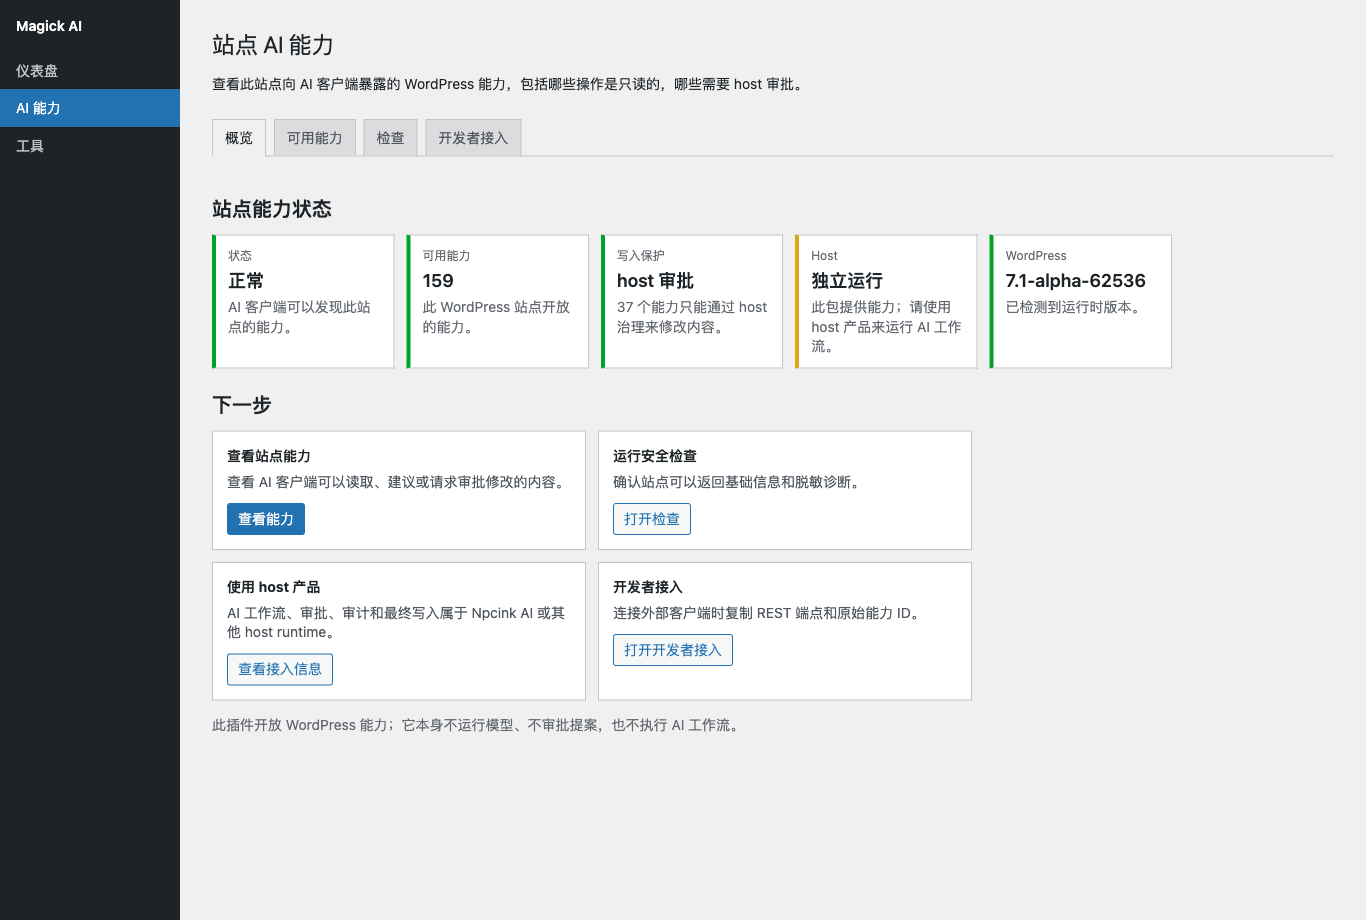
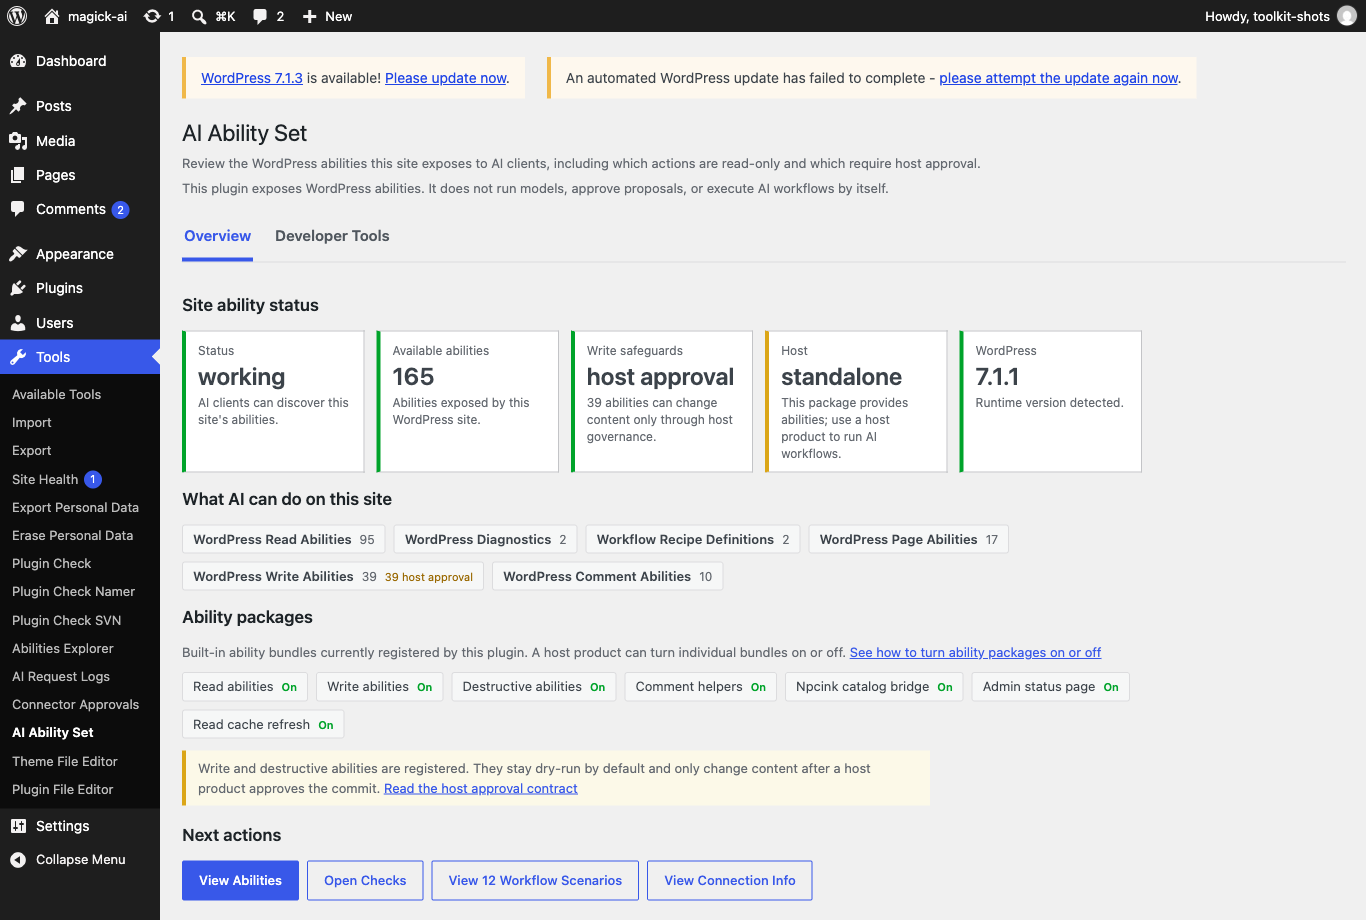
release: prepare 0.5.12 (#238)
User-experience and operator-guidance release from the 2026-10 end-user
audit: no ability contract, schema, or response-shape changes. Version
header, constant, readme stable tag and changelog, the CHANGELOG 0.5.12
section dated today, and all four WordPress.org screenshots refreshed
for the current Overview + Developer Tools structure in English on the
standalone Tools placement (the old set still showed the pre-0.5.9
four-tab Chinese layout).

Changed region(s): [[0.0, 0.0, 1.0, 1.0], [0.4919, 0.9435, 0.5842, 0.9739]]

diff --git a/npcink-abilities-toolkit.php b/npcink-abilities-toolkit.php
@@ -2,7 +2,7 @@
 /**
  * Plugin Name: Npcink Abilities Toolkit
  * Description: Standalone WordPress Abilities API package toolkit for safely exposing agent-callable abilities.
- * Version: 0.5.11
+ * Version: 0.5.12
  * Requires at least: 6.9
  * Requires PHP: 8.0
  * Author: Npcink
@@ -18,7 +18,7 @@ if ( ! defined( 'ABSPATH' ) ) {
 	exit;
 }
 
-define( 'NPCINK_ABILITIES_TOOLKIT_VERSION', '0.5.11' );
+define( 'NPCINK_ABILITIES_TOOLKIT_VERSION', '0.5.12' );
 define( 'NPCINK_ABILITIES_TOOLKIT_FILE', __FILE__ );
 define( 'NPCINK_ABILITIES_TOOLKIT_DIR', plugin_dir_path( __FILE__ ) );
 

diff --git a/CHANGELOG.md b/CHANGELOG.md
@@ -1,5 +1,16 @@
 # Changelog
 
+## 0.5.12 - 2026-10-11
+
+User-experience and operator-guidance release from the 2026-10 end-user audit: no ability contract, schema, response-shape, or behavior changes to abilities; ability ids and payloads are identical to 0.5.11.
+
+- Operator-first troubleshooting guide (#236): `docs/troubleshooting.md` now opens with "Start Here (No Command Line)" — wp-admin-only triage steps for site operators, with the WP-CLI and composer material moved under a developer section — and gains "Turn Ability Packages On Or Off" with a copy-paste mu-plugin snippet for read-only sites plus a "Documentation Mirror For Restricted Networks" section; the admin Overview ability-package list links to the package guidance so a standalone site owner is one click from turning write-like packages off.
+- All admin help links route through the new `Support\Docs_Links` builder with a single `npcink_abilities_toolkit_docs_base_url` filter (#236): sites and hosts whose network makes GitHub unreliable can repoint every help link at a mirror they maintain; the default stays the public GitHub repository and the filter is documented in `docs/public-api.md` beside the other package controls.
+- Safe-check clarity and support handoff (#236): a disabled Site Info or Redacted Diagnostics button now explains that its ability is not registered on this site (a host product or site filter may have turned the package off) instead of greying out silently, and the raw check response and raw discovery outputs each gained a Copy response button reusing the existing copy affordance.
+- Storefront and internal docs (#236): the readme.txt Description leads with what the plugin gives a site owner before boundary language, and the internal screenshot-refresh reminder moved from the packaged Screenshots section into the release runbook's Pre-Commit Verification list. All four WordPress.org screenshots are refreshed for the current Overview + Developer Tools structure (the previous set still showed the pre-0.5.9 four-tab layout in Chinese) and now show the new Checks and Connection affordances in English on the standalone Tools placement.
+- Three new admin strings (the disabled-check reason, Copy response, and the package-guidance link label) ship in the translation template and all seven bundled locales at full parity, with the `.mo` files recompiled.
+- Repository follow-ups recorded outside the package (#237): ADR 0009 accepts the operator read-only package opt-out design (one narrowing-only option whose precedence is an AND with the host package filter) with implementation deferred to the 0.6 line, and an opt-in `gitee-mirror` workflow can mirror `master` and tags to gitee.com for documentation reachability once the maintainer creates the mirror, secret, and enable variable. Neither ships in the WordPress.org package.
+
 ## 0.5.11 - 2026-10-11
 
 Security and performance hardening release from the 2026-10 audit: no ability contract, schema, or response-shape changes; the pull requests since 0.5.10 (#222-#232) land per-post authorization gates, per-request hot-path savings, defense-in-depth closures, and one user-visible uninstall default change.
